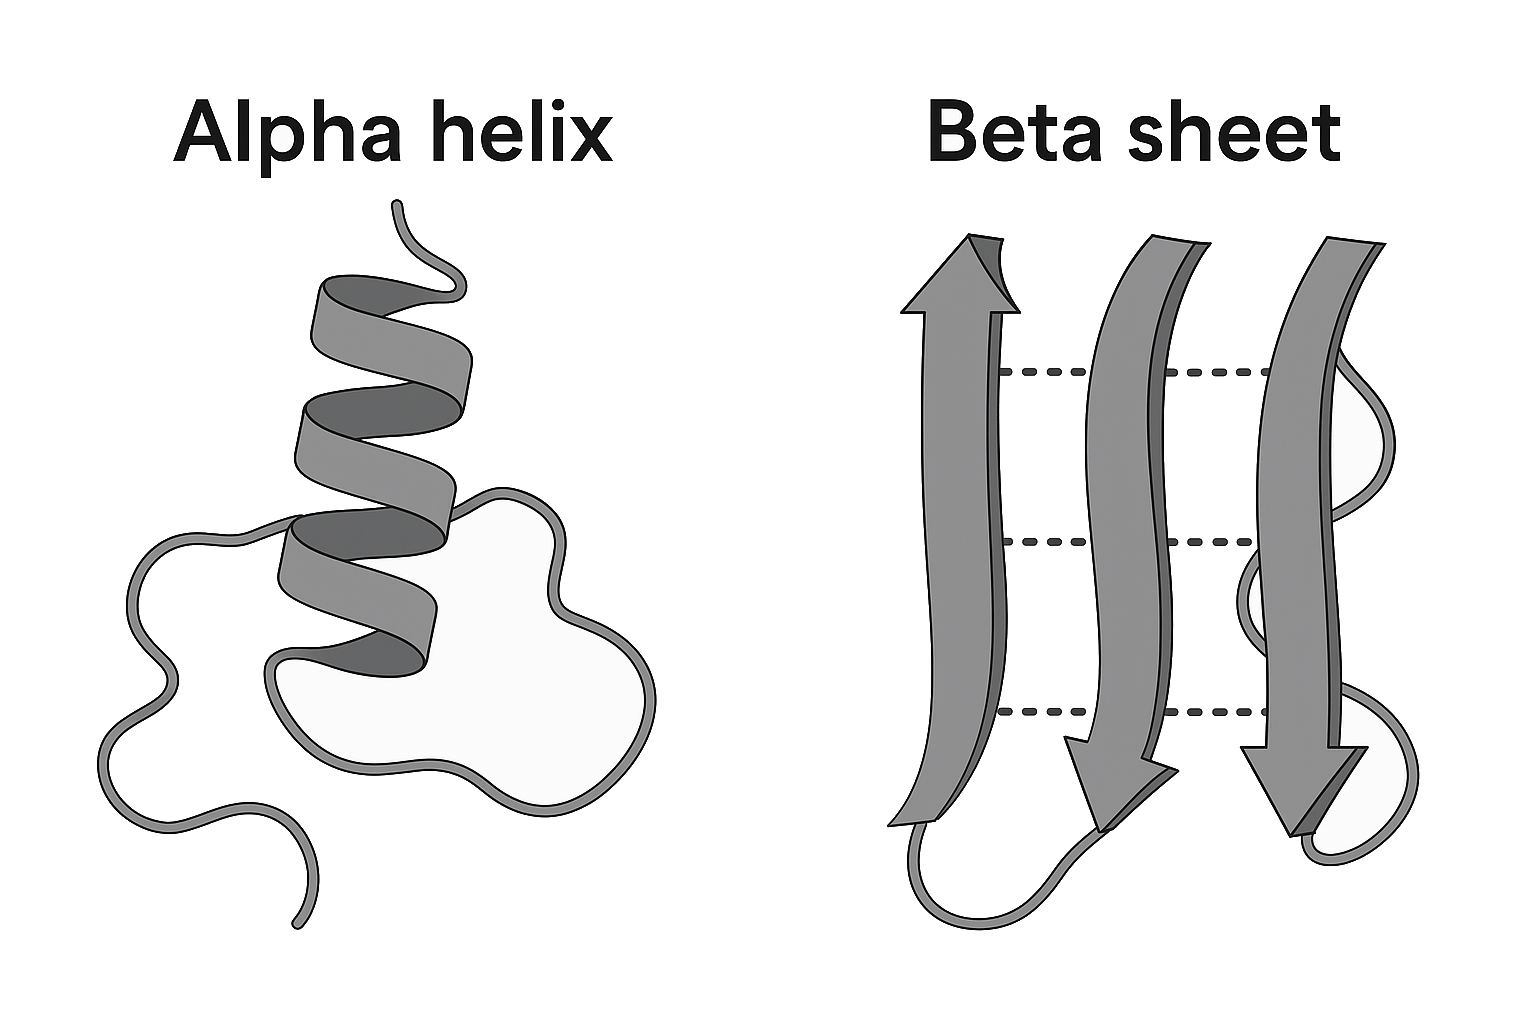
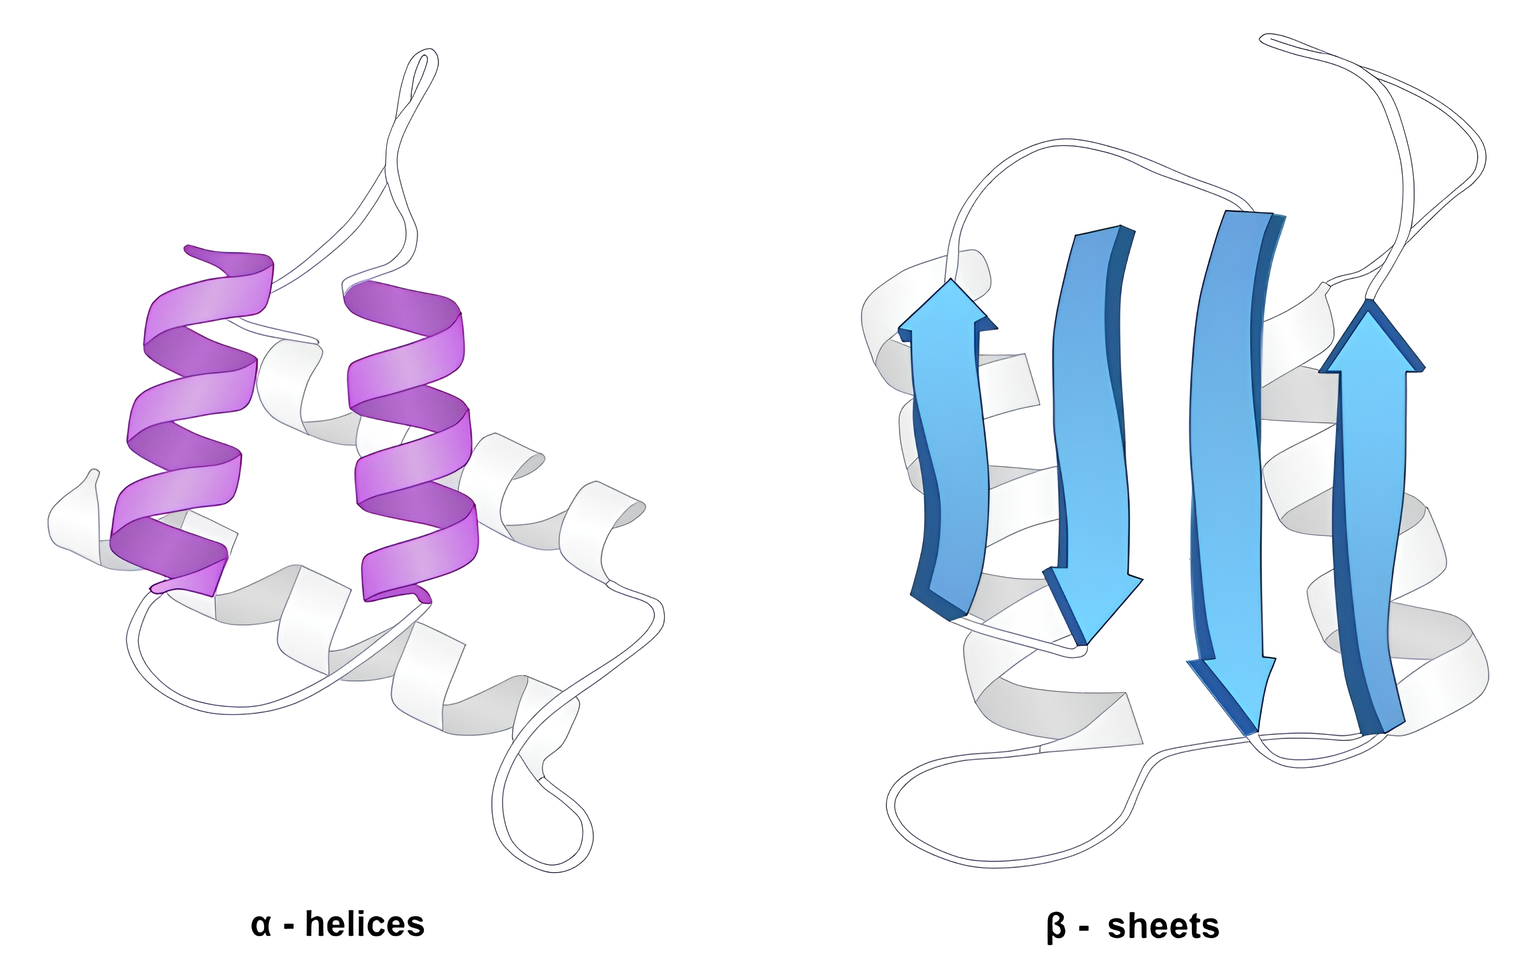
Change Chapter 1 image

diff --git a/chap01.tex b/chap01.tex
@@ -11,11 +11,9 @@ This chapter offers an overview of the bioinformatics field, focusing on key mol
 \begin{figure}[ht]
     \centering
     \includegraphics[width=0.8\textwidth]{img/ah_bs.png}
-    \caption{Illustration of an alpha helix and a beta sheet, the two most common types of protein secondary structure. Generated with DALL·E 3.}
+    \caption{Illustration of an alpha helices and a beta sheets, the two most common types of protein secondary structure. Image created by BioNinja \cite{alphabetapicture}.}
     \label{fig:alpha-beta}
 \end{figure}
-
-\xxx{TODO: change the picture}
 
 The second level of protein structure is the \textbf{secondary structure}, which refers to local folding patterns within the polypeptide chain. The most common secondary structures are \textbf{alpha helices} and \textbf{beta sheets}, as shown in Figure~\ref{fig:alpha-beta}. These structures arise from hydrogen bonding between the backbone atoms of the amino acids, stabilizing the overall protein structure. All proteins also have a \textbf{three-dimensional (3D) structure}, also known as \textbf{tertiary structure}, which is crucial for their function \cite{nelson2008lehninger}, \cite{voet2010biochemistry}.
 
